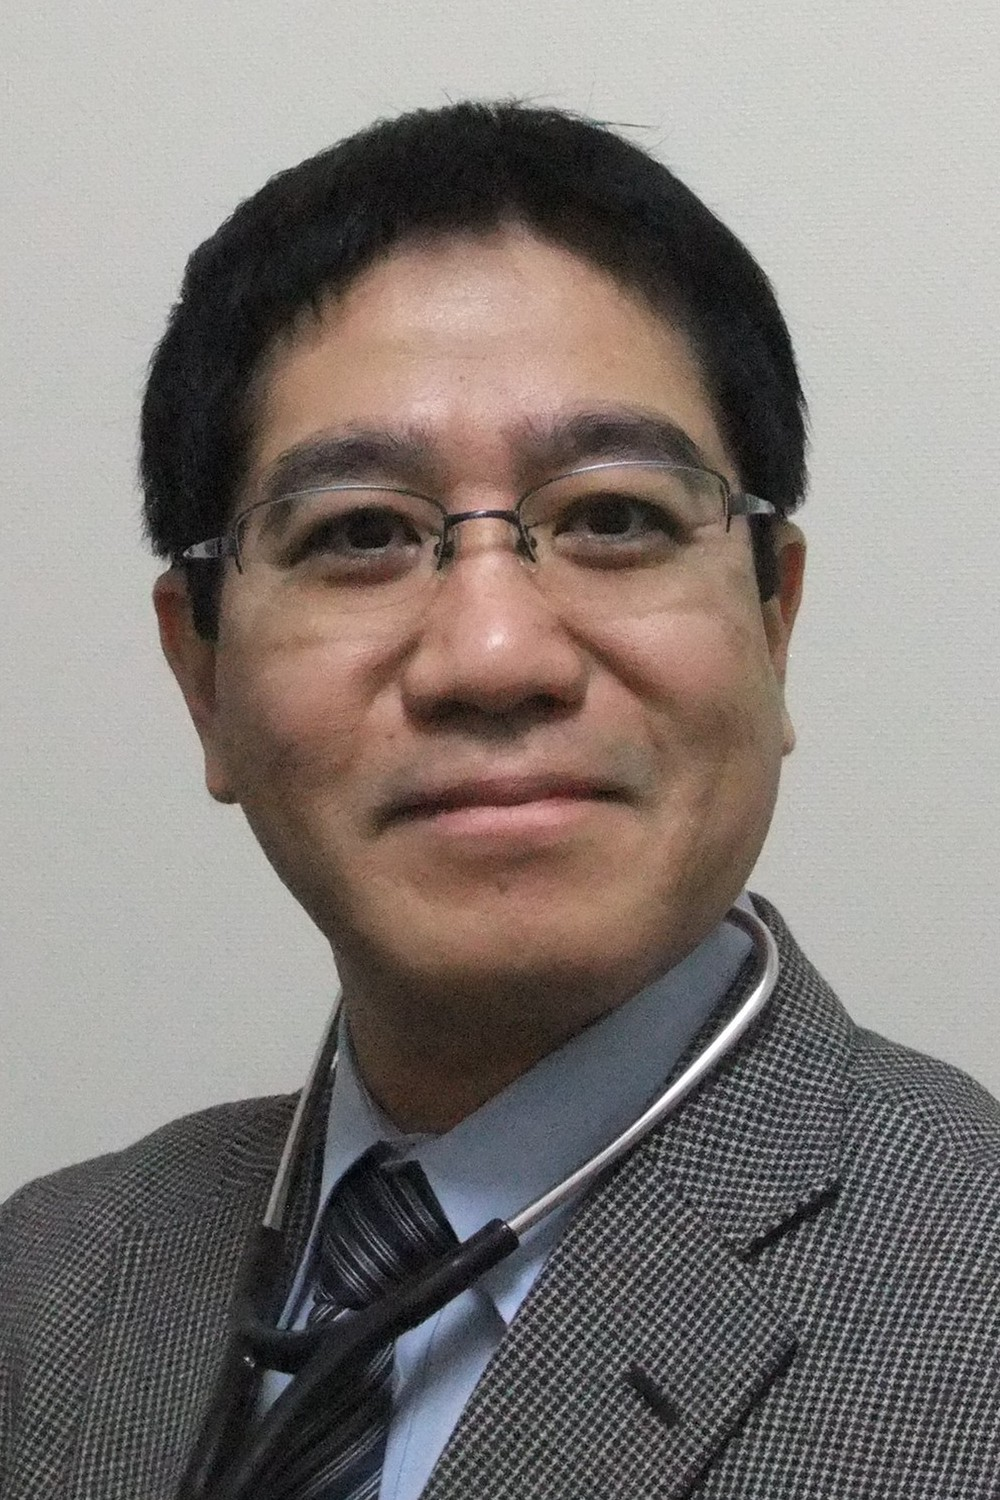
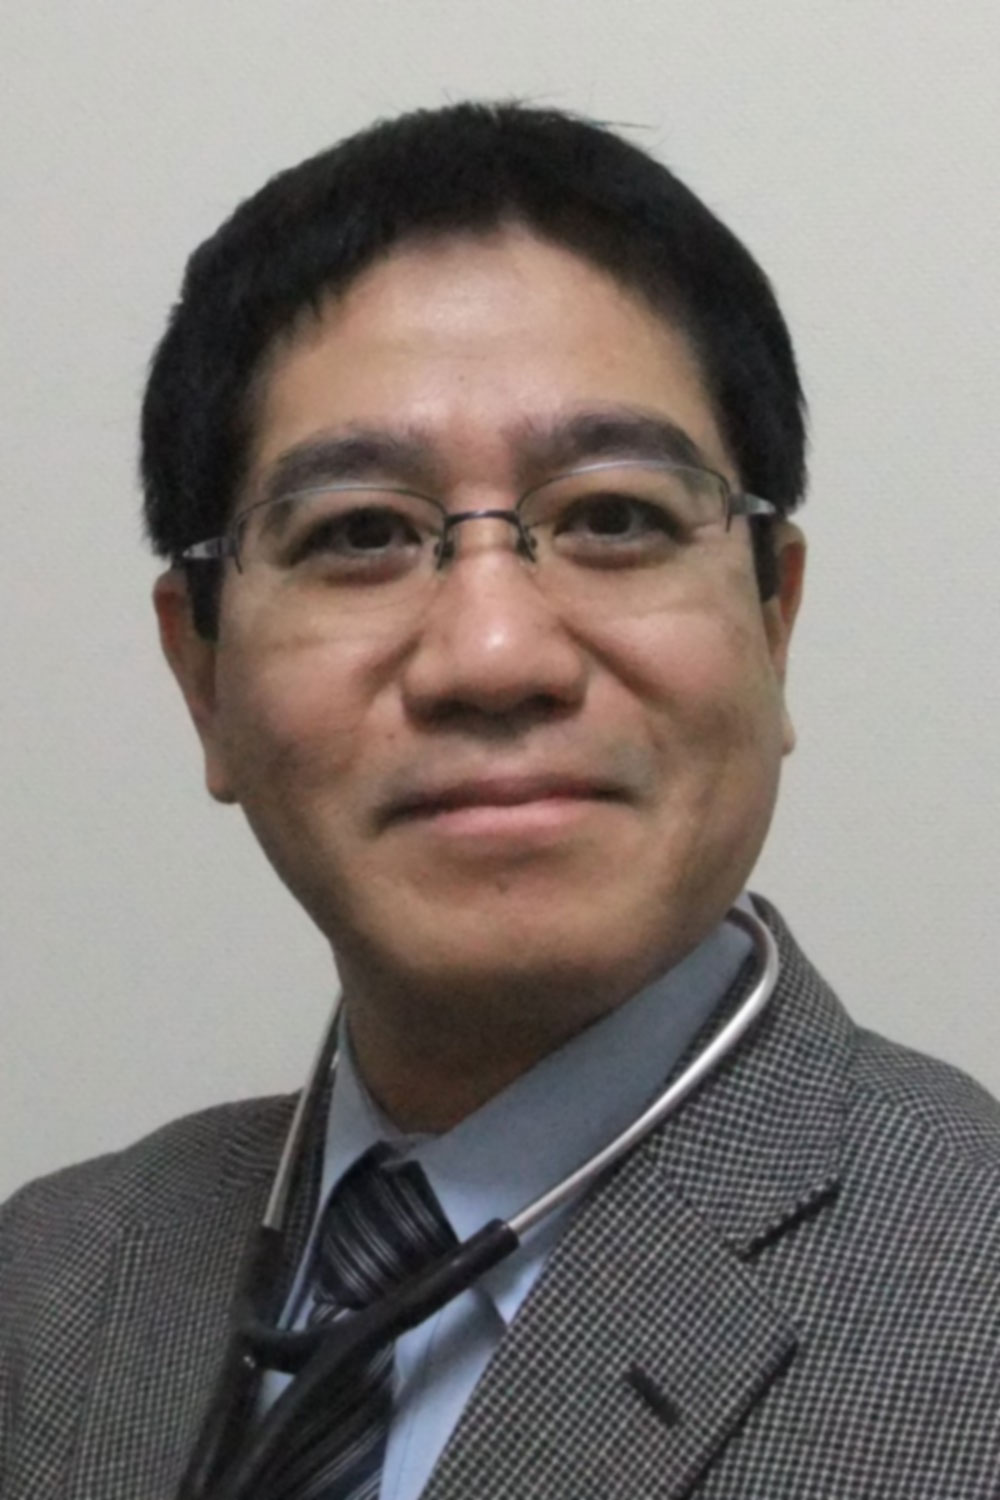
[fix]アスペクト比の修正
講演会のLightboxでのアスペクト比エラーを修正しました。また、モアレを消去しました

diff --git a/application/views/templates/footer.php b/application/views/templates/footer.php
@@ -477,7 +477,7 @@
   <br>
   <p>午前の部に関しては事前予約を行っております。</p>
   <a href="https://docs.google.com/forms/d/e/1FAIpQLSdYYWf8Fgwzeqd4dqd1XGsejb2Co3x0pOFF9ePu5Un7_sCpTg/viewform?usp=sf_link" class="ml0 my2 flex justify-start items-center controls text-decoration-none background-reserve link-button">
-    <amp-img src="/img/lecturers/Yasuo-Kurimoto-photo.jpg" width="519" height="610" layout="responsive" class="my0 left mr1 col-2" alt="Logo"></amp-img>
+    <amp-img src="/img/lecturers/Yasuo-Kurimoto-photo.jpg" width="378" height="567" layout="responsive" class="my0 left mr1 col-2" alt="Logo"></amp-img>
     <div class="inline-block col-10 white-text">
       栗本康夫先生講演会事前予約<br />
       フォームはこちら<br />
@@ -485,7 +485,7 @@
     </div>
   </a>
   <a href="https://docs.google.com/forms/d/e/1FAIpQLSeZ_QjS0ctyhrvU7lSSzgwE_FtGeYIi2zENHDE7GTIyLnC50Q/viewform?usp=sf_link" class="ml0 my2 flex justify-start items-center controls text-decoration-none background-reserve link-button">
-    <amp-img src="/img/lecturers/Yasuharu-Tokuda-photo-2.jpg" width="1347" height="1502" layout="responsive" class="my0 left mr1 col-2" alt="Logo"></amp-img>
+    <amp-img src="/img/lecturers/Yasuharu-Tokuda-photo-2.jpg" width="1000" height="1500" layout="responsive" class="my0 left mr1 col-2" alt="Logo"></amp-img>
     <div class="inline-block col-10 white-text">
       徳田安春先生講演会事前予約<br />
       フォームはこちら<br />
